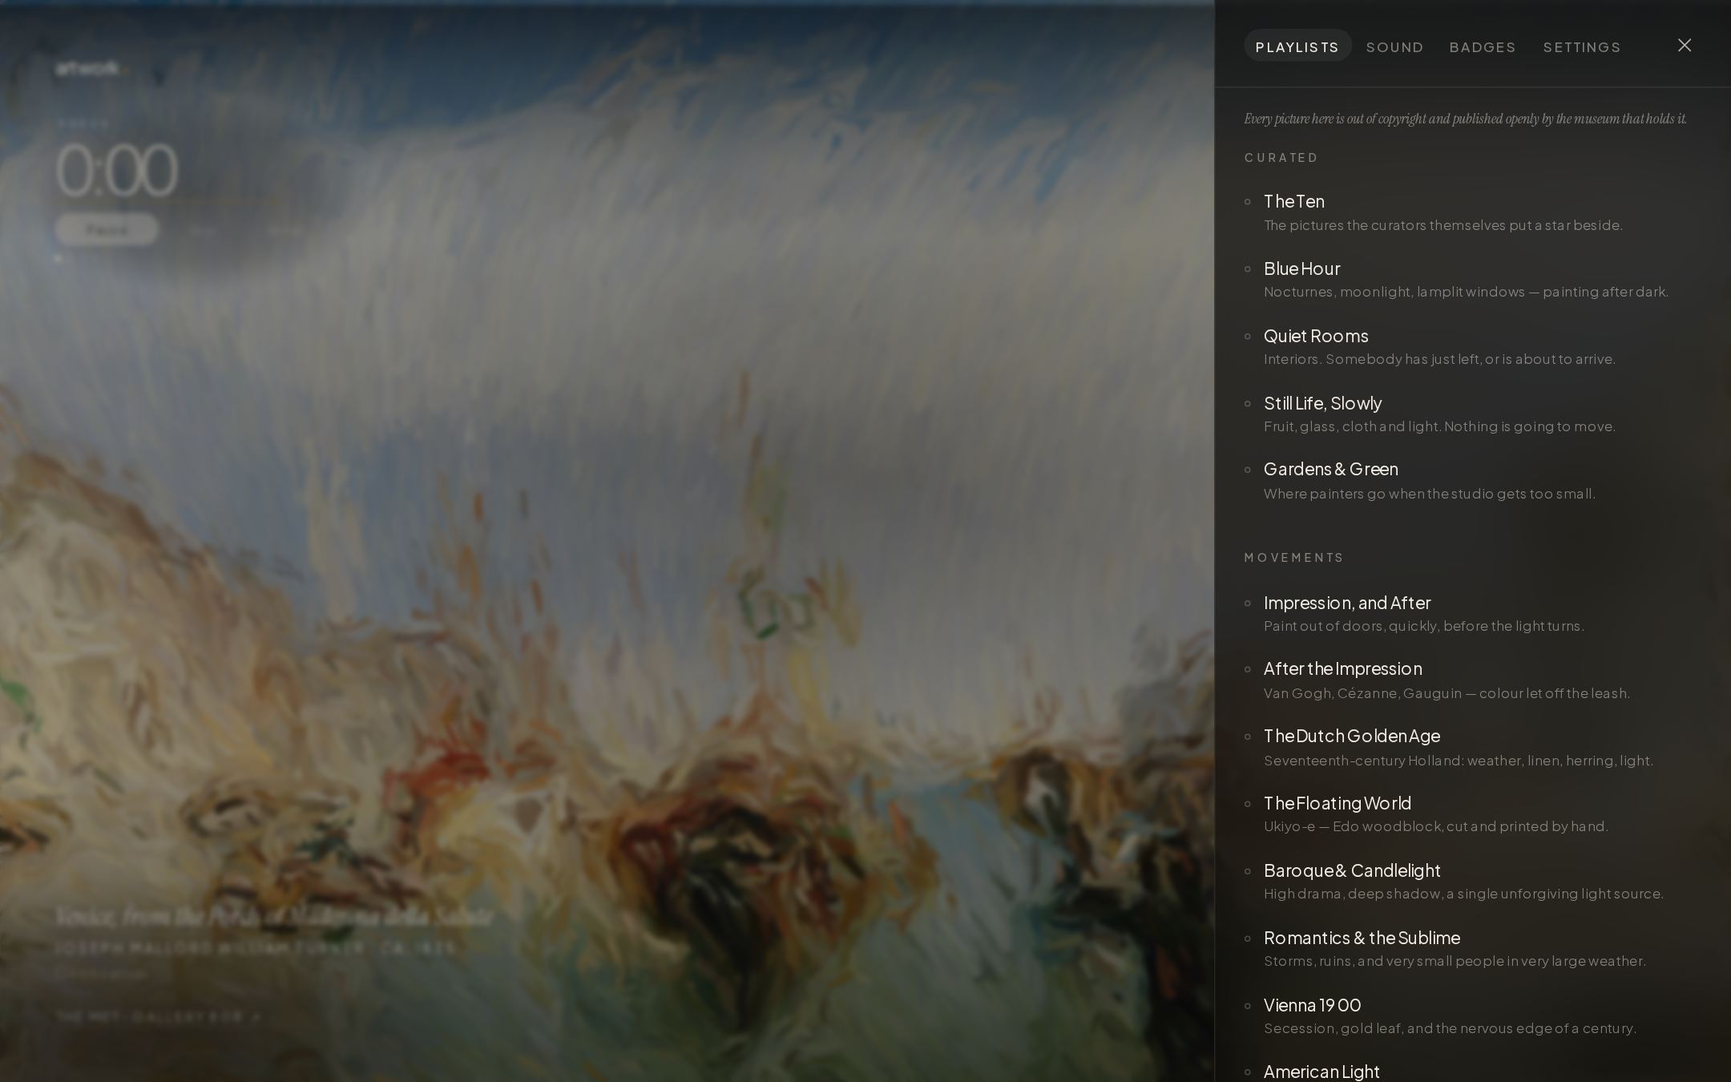
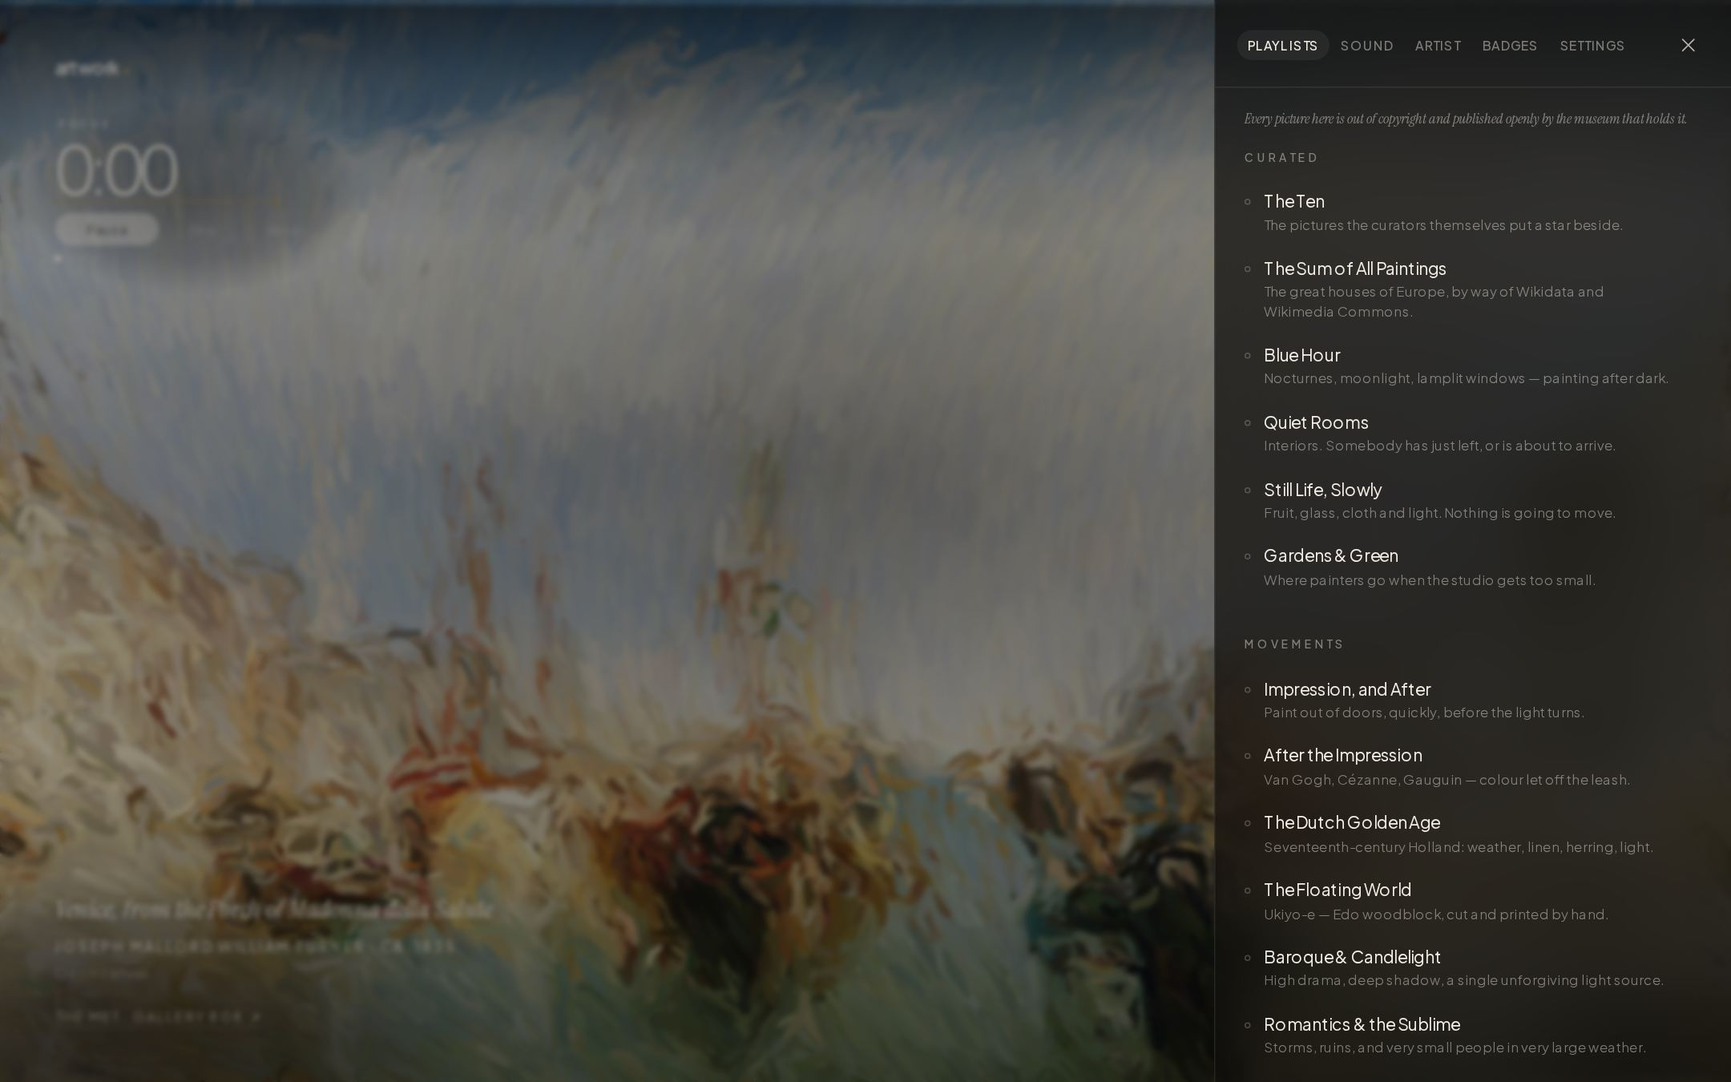
Get the detail back, and let the finish sweep across the picture
Detail. The fine passes were sampling colour from a 520-pixel reduction
of the source, so however small the strokes got, what they were painting
with was blurred. The finest mip is now 1040 wide, which is where most
of the sharpness comes back from. On top of that the schedule gains a
sixth pass — very small marks, edges only — and the two before it start
earlier and reject less.

The finish is now legible. The last three passes no longer scatter their
strokes over the whole canvas: each is sorted into diagonal bands, so
the closing stretch reads as a brush travelling down the picture and
sharpening it as it goes, rather than detail popping in everywhere at
once. Verified in the plan: the swept passes march from y=0.14 to y=0.84
across their run, where the unswept ones sit at 0.52 throughout.

Sources. Wikidata's "sum of all paintings" via the SPARQL endpoint, with
the pictures off Wikimedia Commons — keyless, CORS-open, and restricted
to work painted before 1900. That reaches the houses with no API of
their own: new shelves for the Rijksmuseum, the Prado, the Louvre and
the National Gallery, a curated shelf drawing on nine great collections
at once, and Wikidata folded into Venice, Paris, The Sea, Impressionism,
the Dutch Golden Age, Monet, Van Gogh, Turner and Vermeer. Its optional
fields multiply rows, so the adapter over-fetches and dedupes back down,
and drops anything without an English label. 38 playlists, six sources.

diff --git a/js/playlists.js b/js/playlists.js
@@ -16,6 +16,11 @@ export const PLAYLISTS = [
       { src:'met', params:{ isHighlight:'true', medium:'Paintings', q:'painting' }, take:30 },
     ]},
 
+  { id:'sum-of-paintings', group:'Curated', name:'The Sum of All Paintings', note:'The great houses of Europe, by way of Wikidata and Wikimedia Commons.',
+    tags:['highlight'], rand:true, queries:[
+      { src:'wd', filter:'VALUES ?coll { wd:Q190804 wd:Q160112 wd:Q19675 wd:Q180788 wd:Q51252 wd:Q132783 wd:Q23402 wd:Q95569 wd:Q221092 } ?item wdt:P195 ?coll .', limit:50 },
+    ]},
+
   { id:'blue-hour', group:'Curated', name:'Blue Hour', note:'Nocturnes, moonlight, lamplit windows — painting after dark.',
     tags:['night'], queries:[
       { src:'aic', q:'nocturne night moonlight', types:['Painting'], limit:80 },
@@ -50,6 +55,7 @@ export const PLAYLISTS = [
       { src:'aic', q:'impressionism impressionist', types:['Painting'], limit:90 },
       { src:'met', params:{ q:'impressionism', medium:'Paintings', dateBegin:'1860', dateEnd:'1910' }, take:30 },
       { src:'cma', params:{ q:'impressionism', type:'Painting' }, limit:30 },
+      { src:'wd', filter:'?item wdt:P135 wd:Q40415 .', limit:40 },
     ]},
 
   { id:'post-impressionism', group:'Movements', name:'After the Impression', note:'Van Gogh, Cézanne, Gauguin — colour let off the leash.',
@@ -63,6 +69,7 @@ export const PLAYLISTS = [
       { src:'aic', q:'dutch seventeenth century rembrandt hals', types:['Painting'], limit:80 },
       { src:'met', params:{ q:'Dutch', medium:'Paintings', dateBegin:'1600', dateEnd:'1700' }, take:32 },
       { src:'cma', params:{ q:'dutch', type:'Painting', created_after:'1600', created_before:'1700' }, limit:30 },
+      { src:'wd', filter:'?item wdt:P135 wd:Q1474884 .', limit:40 },
     ]},
 
   { id:'ukiyo-e', group:'Movements', name:'The Floating World', note:'Ukiyo-e — Edo woodblock, cut and printed by hand.',
@@ -106,6 +113,7 @@ export const PLAYLISTS = [
       { src:'aic', q:'Claude Monet', types:['Painting'], limit:60 },
       { src:'met', params:{ q:'Claude Monet', artistOrCulture:'true' }, take:26 },
       { src:'cma', params:{ artists:'Claude Monet' }, limit:20 },
+      { src:'wd', filter:'?item wdt:P170 wd:Q296 .', limit:36 },
     ]},
 
   { id:'van-gogh', group:'Artists', name:'Vincent van Gogh', note:'Ten years of painting, most of it in the last four.',
@@ -113,6 +121,7 @@ export const PLAYLISTS = [
       { src:'aic', q:'Vincent van Gogh', limit:60 },
       { src:'met', params:{ q:'Vincent van Gogh', artistOrCulture:'true' }, take:26 },
       { src:'cma', params:{ artists:'Vincent van Gogh' }, limit:20 },
+      { src:'wd', filter:'?item wdt:P170 wd:Q5582 .', limit:36 },
     ]},
 
   { id:'hokusai', group:'Artists', name:'Hokusai & Hiroshige', note:'Fuji from thirty-six angles; the road east in fifty-three stops.',
@@ -127,6 +136,7 @@ export const PLAYLISTS = [
       { src:'met', params:{ q:'Johannes Vermeer', artistOrCulture:'true' }, take:14 },
       { src:'met', params:{ q:'Pieter de Hooch Gerard ter Borch', medium:'Paintings' }, take:22 },
       { src:'aic', q:'vermeer de hooch dutch interior', types:['Painting'], limit:50 },
+      { src:'wd', filter:'?item wdt:P170 wd:Q41264 .', limit:24 },
     ]},
 
   { id:'turner', group:'Artists', name:'J. M. W. Turner', note:'Light dissolving everything it touches, including the ship.',
@@ -135,6 +145,7 @@ export const PLAYLISTS = [
       { src:'aic', q:'Turner watercolour english landscape', limit:60 },
       { src:'cma', params:{ artists:'Joseph Mallord William Turner' }, limit:20 },
       { src:'vam', params:{ q:'Turner' }, limit:24 },
+      { src:'wd', filter:'?item wdt:P170 wd:Q159758 .', limit:36 },
     ]},
 
   { id:'sargent', group:'Artists', name:'John Singer Sargent', note:'Society portraits by day; watercolour holidays by afternoon.',
@@ -171,6 +182,7 @@ export const PLAYLISTS = [
       { src:'met', params:{ q:'Venice', medium:'Paintings|Drawings|Watercolors' }, take:30 },
       { src:'cma', params:{ q:'venice' }, limit:30 },
       { src:'vam', params:{ q:'Venice' }, limit:30 },
+      { src:'wd', filter:'?item wdt:P180 wd:Q641 .', limit:40 },
     ]},
 
   { id:'paris', group:'Places', name:'Paris', note:'Boulevards in the rain, and everybody at the café.',
@@ -178,6 +190,7 @@ export const PLAYLISTS = [
       { src:'aic', q:'Paris boulevard Seine Montmartre', limit:80 },
       { src:'met', params:{ q:'Paris', medium:'Paintings' }, take:30 },
       { src:'cma', params:{ q:'paris', type:'Painting' }, limit:26 },
+      { src:'wd', filter:'?item wdt:P180 wd:Q90 .', limit:40 },
     ]},
 
   { id:'japan', group:'Places', name:'Japan', note:'Rain, snow, pine, and Fuji somewhere at the back.',
@@ -193,6 +206,7 @@ export const PLAYLISTS = [
       { src:'met', params:{ q:'seascape', medium:'Paintings' }, take:28 },
       { src:'cma', params:{ q:'sea coast', type:'Painting' }, limit:30 },
       { src:'smk', params:{ keys:'hav kyst skib' }, limit:26 },
+      { src:'wd', filter:'?item wdt:P136 wd:Q158607 .', limit:40 },
     ]},
 
   { id:'the-north', group:'Places', name:'The North', note:'Nordic light: long shadows, cold water, low sun.',
@@ -227,6 +241,26 @@ export const PLAYLISTS = [
   { id:'museum-vam', group:'Museums', name:'The V&A', note:'South Kensington: the world’s largest museum of applied art.',
     tags:['vam'], rand:true, queries:[
       { src:'vam', params:{ q:'painting watercolour', year_made_to:'1910' }, limit:50 },
+    ]},
+
+  { id:'museum-rijks', group:'Museums', name:'The Rijksmuseum', note:'Amsterdam. Rembrandt, Vermeer, Hals, and the whole Golden Age.',
+    tags:['rijks'], rand:true, queries:[
+      { src:'wd', filter:'VALUES ?coll { wd:Q190804 } ?item wdt:P195 ?coll .', limit:45 },
+    ]},
+
+  { id:'museum-prado', group:'Museums', name:'Museo del Prado', note:'Madrid. Velázquez, Goya, El Greco, Bosch.',
+    tags:['prado'], rand:true, queries:[
+      { src:'wd', filter:'VALUES ?coll { wd:Q160112 } ?item wdt:P195 ?coll .', limit:45 },
+    ]},
+
+  { id:'museum-louvre', group:'Museums', name:'The Louvre', note:'Paris. Rather a lot of it.',
+    tags:['louvre'], rand:true, queries:[
+      { src:'wd', filter:'VALUES ?coll { wd:Q19675 } ?item wdt:P195 ?coll .', limit:45 },
+    ]},
+
+  { id:'museum-ng', group:'Museums', name:'The National Gallery', note:'Trafalgar Square, and free since 1824.',
+    tags:['ng'], rand:true, queries:[
+      { src:'wd', filter:'VALUES ?coll { wd:Q180788 } ?item wdt:P195 ?coll .', limit:45 },
     ]},
 
   { id:'museum-smk', group:'Museums', name:'SMK, Copenhagen', note:'The Danish national gallery, open-licensed and Nordic to the bone.',

diff --git a/js/sources.js b/js/sources.js
@@ -279,6 +279,90 @@ async function smkSearch({ params = {}, limit = 40 }, signal) {
   return (j.items || []).map(fromSMK).filter(Boolean);
 }
 
+/* ------------------------------------------------------ WIKIDATA
+   Everything the other five don't hold. Wikidata's "sum of all
+   paintings" reaches the Rijksmuseum, the Prado, the Louvre and the
+   National Gallery, and the pictures come off Wikimedia Commons.
+   Only work made before 1900, so the painting itself is long out of
+   copyright wherever it hangs. */
+const DEMONYM = { Netherlands:'Dutch', 'Dutch Republic':'Dutch', 'Kingdom of the Netherlands':'Dutch',
+  'Northern Netherlands':'Dutch', France:'French', 'Kingdom of France':'French', Italy:'Italian',
+  'Kingdom of Italy':'Italian', 'Republic of Venice':'Italian', 'Papal States':'Italian',
+  'Grand Duchy of Tuscany':'Italian', Germany:'German', 'Kingdom of Prussia':'German',
+  'German Empire':'German', Spain:'Spanish', 'United Kingdom':'British',
+  'United Kingdom of Great Britain and Ireland':'British', England:'British', Scotland:'British',
+  'Kingdom of Great Britain':'British', 'United States of America':'American', Japan:'Japanese',
+  Belgium:'Belgian', 'County of Flanders':'Flemish', 'Habsburg Netherlands':'Flemish',
+  Austria:'Austrian', 'Austrian Empire':'Austrian', 'Austria-Hungary':'Austrian',
+  'Russian Empire':'Russian', Russia:'Russian', Sweden:'Swedish', Norway:'Norwegian',
+  Denmark:'Danish', Switzerland:'Swiss', Poland:'Polish', Hungary:'Hungarian', Greece:'Greek' };
+
+const isQid = s => /^Q\d+$/.test(s || '');
+
+function fromWD(b) {
+  const qid = (b.item?.value || '').split('/').pop();
+  const file = b.image?.value;
+  if (!qid || !file) return null;
+  const title = b.itemLabel?.value;
+  if (!title || isQid(title)) return null;                 // nothing readable to put on the label
+  const artist = b.creatorLabel?.value;
+  const src = file.replace(/^http:/, 'https:');
+  const coll = b.collLabel?.value && !isQid(b.collLabel.value) ? b.collLabel.value : '';
+  const country = b.natLabel?.value || '';
+  return finish({
+    key: 'wd:' + qid,
+    src: 'wd',
+    museum: coll || 'Wikimedia Commons',
+    museumShort: coll || 'Wikimedia Commons',
+    city: '',
+    title,
+    artist: artist && !isQid(artist) ? artist : 'Unknown',
+    artistBio: '',
+    nationality: DEMONYM[country] || '',
+    date: (b.inception?.value || '').slice(0, 4),
+    medium: b.matLabel?.value && !isQid(b.matLabel.value) ? b.matLabel.value : '',
+    dims: '',
+    credit: coll,
+    place: '',
+    culture: country,
+    style: b.movLabel?.value && !isQid(b.movLabel?.value) ? b.movLabel.value : '',
+    classification: 'Painting',
+    department: '',
+    gallery: '',
+    note: '',
+    alt: [title, artist].filter(Boolean).join(', '),
+    url: `https://www.wikidata.org/wiki/${qid}`,
+    lqip: '',
+    ratio: 0,
+    image: w => `${src}?width=${w}`,
+    hiRes: `${src}?width=2400`,
+  });
+}
+
+async function wdSearch({ filter = '', limit = 40, offset = 0 }, signal) {
+  const q = `SELECT ?item ?itemLabel ?creatorLabel ?image ?inception ?matLabel ?collLabel ?natLabel ?movLabel WHERE {
+  ?item wdt:P31 wd:Q3305213 ; wdt:P18 ?image ; wdt:P170 ?creator ; wdt:P571 ?inception .
+  FILTER(YEAR(?inception) < 1900)
+  FILTER EXISTS { ?item rdfs:label ?en FILTER(LANG(?en) = "en") }
+  ${filter}
+  OPTIONAL { ?item wdt:P186 ?mat }
+  OPTIONAL { ?item wdt:P195 ?coll }
+  OPTIONAL { ?item wdt:P135 ?mov }
+  OPTIONAL { ?creator wdt:P27 ?nat }
+  SERVICE wikibase:label { bd:serviceParam wikibase:language "en". }
+} LIMIT ${limit * 3} OFFSET ${offset}`;      // the optionals multiply rows; we dedupe back down
+  const url = `https://query.wikidata.org/sparql?format=json&query=${encodeURIComponent(q)}`;
+  const j = await fetchJSON(url, { signal, timeout: 26000 });
+  const rows = j.results?.bindings || [];
+  const seen = new Set();
+  return rows.map(b => {                                   // optionals multiply rows; keep the first
+    const id = b.item?.value;
+    if (!id || seen.has(id)) return null;
+    seen.add(id);
+    return fromWD(b);
+  }).filter(Boolean);
+}
+
 /* ---------------------------------------------------------- */
 const SOURCES = {
   aic: { name: 'Art Institute of Chicago', run: aicSearch },
@@ -286,6 +370,7 @@ const SOURCES = {
   cma: { name: 'Cleveland Museum of Art', run: cmaSearch },
   vam: { name: 'Victoria and Albert Museum', run: vamSearch },
   smk: { name: 'Statens Museum for Kunst', run: smkSearch },
+  wd:  { name: 'Wikidata · the sum of all paintings', run: wdSearch },
 };
 
 /** run one query spec from a playlist */

diff --git a/js/painter.js b/js/painter.js
@@ -24,9 +24,10 @@ const BURST = 60;        // beyond this many strokes behind, stop animating and 
 const LAYERS = [
   { t0:0,   t1:.09, size:.120, mip:3, over:2.4, elong:2.1, wide:.84, alpha:[.42,.62], detail:0,   segs:7, bristle:3, blunt:[.58,.78], halo:.34 },
   { t0:.09, t1:.32, size:.056, mip:2, over:1.9, elong:2.3, wide:.70, alpha:[.52,.74], detail:0,   segs:6, bristle:3, blunt:[.44,.64], halo:.22 },
-  { t0:.32, t1:.60, size:.027, mip:1, over:1.6, elong:2.4, wide:.58, alpha:[.62,.84], detail:.12, segs:5, bristle:2, blunt:[.32,.52], halo:0   },
-  { t0:.60, t1:.85, size:.0132,mip:0, over:1.35,elong:2.3, wide:.52, alpha:[.60,.86], detail:.38, segs:4, bristle:2, blunt:[.24,.44], halo:0   },
-  { t0:.85, t1:1,   size:.0064,mip:0, over:1.25,elong:2.2, wide:.48, alpha:[.55,.82], detail:.56, segs:3, bristle:1, blunt:[.18,.38], halo:0   },
+  { t0:.32, t1:.58, size:.027, mip:1, over:1.6, elong:2.4, wide:.58, alpha:[.62,.84], detail:.12, segs:5, bristle:2, blunt:[.32,.52], halo:0   },
+  { t0:.58, t1:.78, size:.0132,mip:0, over:1.35,elong:2.3, wide:.52, alpha:[.60,.86], detail:.34, segs:4, bristle:2, blunt:[.24,.44], halo:0, sweep:7 },
+  { t0:.78, t1:.93, size:.0062,mip:0, over:1.2, elong:2.2, wide:.48, alpha:[.55,.82], detail:.50, segs:3, bristle:1, blunt:[.18,.38], halo:0, sweep:11 },
+  { t0:.93, t1:1,   size:.0032,mip:0, over:1.0, elong:2.0, wide:.46, alpha:[.50,.78], detail:.72, segs:2, bristle:0, blunt:[.14,.32], halo:0, sweep:16 },
 ];
 
 export class Painter {
@@ -143,7 +144,7 @@ export class Painter {
 
   _buildMips() {
     this.mips = [];
-    const widths = [520, 260, 130, 64];
+    const widths = [1040, 400, 176, 72];
     const iw = this.img.naturalWidth || 1, ih = this.img.naturalHeight || 1;
     let src = this.img;
     for (const target of widths) {
@@ -319,6 +320,7 @@ export class Painter {
         const j = Math.floor(rnd() * (i + 1));
         const t = order[i]; order[i] = order[j]; order[j] = t;
       }
+      const made = [];
       for (let k = 0; k < count; k++) {
         const c = order[k % cells];
         const x = field.x + ((c % nx) + rnd() - bleed) * cell;
@@ -335,11 +337,25 @@ export class Painter {
           a = flow(x, y, min);
         }
         if (L.detail && m < .5 && rnd() > 1 - L.detail) continue;   // spend the fine work on edges
-        xs.push(x); ys.push(y);
-        an.push(a + (rnd() - .5) * lerp(.86, .3, clamp(m, 0, 1)));
-        sz.push(cell * lerp(.62, 1.62, Math.pow(rnd(), 1.7)));
-        al.push(lerp(L.alpha[0], L.alpha[1], rnd()));
-        lm.push(lerp(1.16, .66, clamp(m, 0, 1)));
+        made.push({
+          x, y,
+          a: a + (rnd() - .5) * lerp(.86, .3, clamp(m, 0, 1)),
+          s: cell * lerp(.62, 1.62, Math.pow(rnd(), 1.7)),
+          al: lerp(L.alpha[0], L.alpha[1], rnd()),
+          lm: lerp(1.16, .66, clamp(m, 0, 1)),
+          k: 0,
+        });
+      }
+      if (L.sweep) {
+        // the finishing passes travel over the picture in bands, so you can
+        // watch it sharpen under the brush instead of everywhere at once
+        const band = (field.h + field.w * .42) / L.sweep;
+        for (const st of made) st.k = Math.floor(((st.y - field.y) + (st.x - field.x) * .42) / band) + rnd() * .5;
+        made.sort((p, q) => p.k - q.k);
+      }
+      for (const st of made) {
+        xs.push(st.x); ys.push(st.y);
+        an.push(st.a); sz.push(st.s); al.push(st.al); lm.push(st.lm);
         lay.push(li);
       }
       bounds.push({ ...L, start, end: xs.length });

diff --git a/js/gallery.js b/js/gallery.js
@@ -58,6 +58,7 @@ export class Gallery {
     if (!spin) return q;
     if (q.src === 'aic') return { ...q, page: 1 + spin };
     if (q.src === 'cma') return { ...q, params: { ...q.params, skip: String(spin * 45) } };
+    if (q.src === 'wd') return { ...q, offset: spin * 40 };
     return q;
   }
 

diff --git a/README.md b/README.md
@@ -13,7 +13,7 @@
 
 </div>
 
-Twenty-five minutes of focus is twenty-five minutes of brushwork. It starts on a bare toned canvas — the picture is never underneath, waiting to be uncovered. Every mark is a brush stroke that you watch being made: it travels along its path in real time, curving with the local image gradient the way a loaded brush does, tapering at both ends, dragging a few bristles of slightly different paint behind it. Five passes, broad blunt bands down to fine points on the edges, and the last of them lands exactly as the clock reaches zero. Around fourteen thousand strokes, one at a time.
+Twenty-five minutes of focus is twenty-five minutes of brushwork. It starts on a bare toned canvas — the picture is never underneath, waiting to be uncovered. Every mark is a brush stroke that you watch being made: it travels along its path in real time, curving with the local image gradient the way a loaded brush does, tapering at both ends, dragging a few bristles of slightly different paint behind it. Six passes, broad blunt bands down to fine points on the edges, and the last of them lands exactly as the clock reaches zero. Around fourteen thousand strokes, one at a time. The three finishing passes don't scatter: they travel over the picture in bands, so the last stretch is a brush sweeping across and sharpening as it goes, rather than detail appearing everywhere at once.
 
 <img src="docs/stages.jpg" alt="the same painting at four stages of completion" width="100%">
 
@@ -33,9 +33,9 @@ Then open `http://localhost:8000`. To publish, drop it on any static host — th
 
 ## What's in it
 
-- **33 playlists** by movement, artist, place, museum and curator's pick — Impressionism, the Dutch Golden Age, Ukiyo-e, Vienna 1900, Monet, Hokusai, Vermeer, Venice, Paris, The Sea, The North.
+- **38 playlists** by movement, artist, place, museum and curator's pick — Impressionism, the Dutch Golden Age, Ukiyo-e, Vienna 1900, Monet, Hokusai, Vermeer, Venice, Paris, The Sea, The North, and the Rijksmuseum, Prado, Louvre and National Gallery by way of Wikidata.
 - **A wall label** for every picture: title, hand, date, medium, the museum's own note, and the gallery it's hanging in right now. Hover it for the credit line.
-- **The hand behind it.** Click the artist and you get a short life off Wikipedia — with their portrait, often a self-portrait, in a gilt frame — and everything else of theirs across the five collections. Click any of those and it goes up on the wall.
+- **The hand behind it.** Click the artist and you get a short life off Wikipedia — with their portrait, often a self-portrait, in a gilt frame — and everything else of theirs across the collections. Click any of those and it goes up on the wall.
 - **Radio**, from SomaFM and the Radio Browser index, with what's playing right now. Ducks under the chime between intervals.
 - **23 badges**, awarded only for pictures you actually sat through — ten German painters, twenty Venices, five works by one hand, seven days running.
 - **Two ways to look.** *Fill* bleeds the picture off every edge; *Hang* fits the whole thing on a lit wall, which portrait paintings prefer.
@@ -50,7 +50,7 @@ Then open `http://localhost:8000`. To publish, drop it on any static host — th
 
 ## Pictures
 
-Five open collections. No keys, no accounts, no proxy — every request goes straight from your browser to the museum, and all five send permissive CORS headers.
+Six open sources. No keys, no accounts, no proxy — every request goes straight from your browser to the collection, and all of them send permissive CORS headers.
 
 | Collection | Endpoint | Filter |
 |---|---|---|
@@ -59,6 +59,9 @@ Five open collections. No keys, no accounts, no proxy — every request goes str
 | [Cleveland Museum of Art](https://openaccess-api.clevelandart.org/) | `openaccess-api.clevelandart.org` | CC0 only |
 | [Victoria and Albert Museum](https://developers.vam.ac.uk/) | `api.vam.ac.uk` | made before 1920 |
 | [SMK — National Gallery of Denmark](https://www.smk.dk/en/article/smk-api/) | `api.smk.dk` | `public_domain` only |
+| [Wikidata · the sum of all paintings](https://www.wikidata.org/wiki/Wikidata:WikiProject_sum_of_all_paintings) | `query.wikidata.org` + Wikimedia Commons | painted before 1900 |
+
+Wikidata is what reaches the houses that have no API of their own — the Rijksmuseum, the Prado, the Louvre, the National Gallery, the Uffizi, the Hermitage, the Mauritshuis.
 
 Artist lives and portraits come from the [Wikipedia REST API](https://en.wikipedia.org/api/rest_v1/).
 
@@ -85,7 +88,7 @@ Responses are cached for the best part of a day. Pictures start from the museum'
 ```
 js/painter.js      the stroke engine
 js/gallery.js      viewing order, image loading, caching
-js/sources.js      five museum adapters, normalised to one shape
+js/sources.js      six collection adapters, normalised to one shape
 js/artist.js       who painted it, and what else of theirs is hanging
 js/playlists.js    the catalogue
 js/timer.js        wall-clock pomodoro state machine
@@ -96,8 +99,8 @@ js/ui.js           panels, labels, toasts, keys
 
 ## Credits
 
-- The five museums above, for putting their collections in the public domain and then publishing an API for them.
-- [Wikipedia](https://en.wikipedia.org), for the lives.
+- The museums above, for putting their collections in the public domain and then publishing an API for them.
+- [Wikidata and Wikimedia Commons](https://www.wikidata.org/wiki/Wikidata:WikiProject_sum_of_all_paintings), for everywhere else, and [Wikipedia](https://en.wikipedia.org) for the lives.
 - [SomaFM](https://somafm.com) — listener-supported, advert-free, hand-programmed. If you leave it on all day, [chip in](https://somafm.com/support/).
 - [Radio Browser](https://www.radio-browser.info/), a community index of everything else.
 - Type is [Plus Jakarta Sans](https://fonts.google.com/specimen/Plus+Jakarta+Sans) and [Instrument Serif](https://fonts.google.com/specimen/Instrument+Serif). The WeWork wordmark is Apercu, which is licensed and can't ship here — Plus Jakarta is the closest free relative. If you own Apercu, put it first in `--sans` at the top of `css/app.css` and everything follows.
